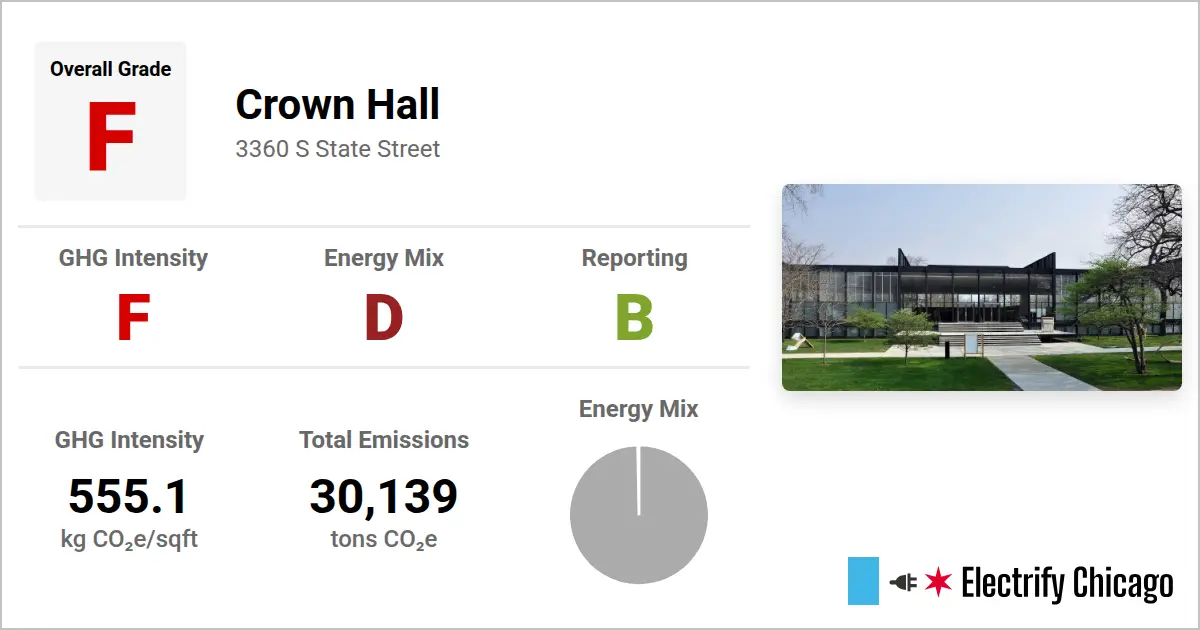
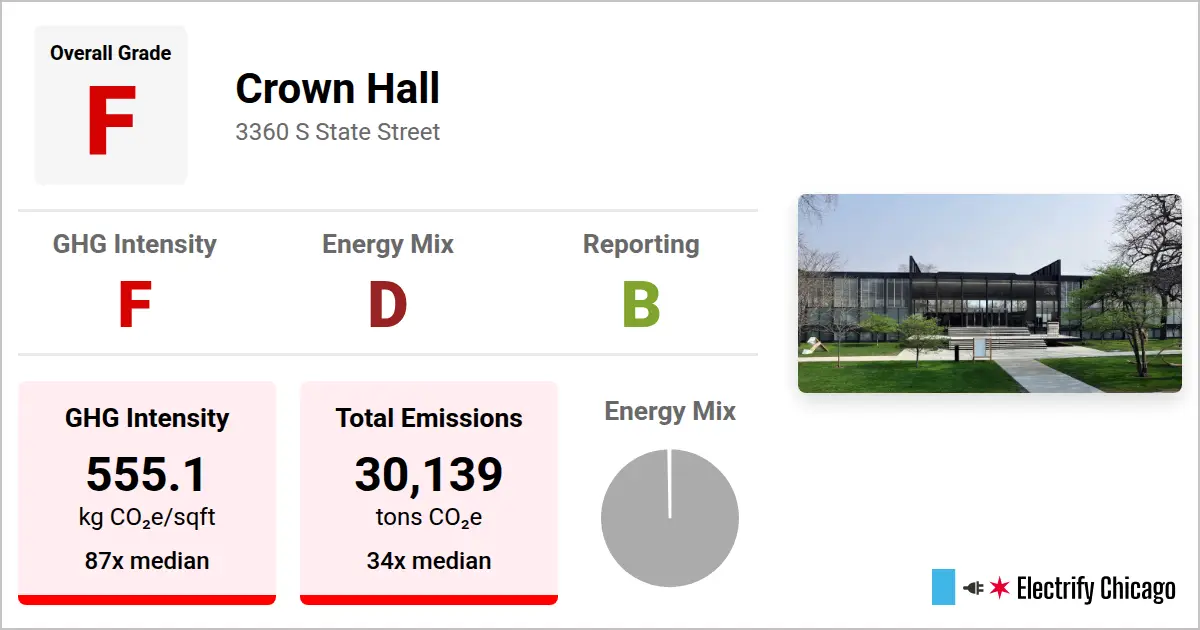
Tweak social images and regenerate test images

diff --git a/src/components/SocialCard.vue b/src/components/SocialCard.vue
@@ -1,7 +1,7 @@
 <template>
   <div class="social-card">
     <div class="social-card-content">
-      <div class="main-section">
+      <div class="main-section" :class="{ '-no-img': !buildingImg }">
         <div class="text-content">
           <div class="building-info">
             <div class="building-title-row">
@@ -240,9 +240,27 @@ export default class SocialCard extends Vue {
   .main-section {
     display: flex;
     height: 100%;
-    gap: 2rem;
+    gap: 2.5rem;
     flex: 1;
     align-items: center;
+
+    &.-no-img .stats-grid {
+      // If there's no image, we don't need to save space, so lock each column
+      grid-template-columns: 1fr 1fr 1fr;
+    }
+
+    .text-content {
+      flex: 1;
+    }
+
+    .image-section {
+      display: flex;
+      flex: 0 0 24rem;
+      height: 100%;
+      flex-direction: column;
+      align-items: flex-end;
+      justify-content: center;
+    }
   }
 
   .logo {
@@ -255,28 +273,16 @@ export default class SocialCard extends Vue {
       align-self: flex-start;
       margin-top: 0;
     }
+
     img {
-      height: 3rem;
+      height: 2.25rem;
     }
   }
 }
 
-.text-content {
-  flex: 1;
-}
-
-.image-section {
-  display: flex;
-  flex: 0 0 25rem;
-  height: 100%;
-  flex-direction: column;
-  align-items: flex-end;
-  justify-content: center;
-}
-
 .building-image {
   max-width: 100%;
-  max-height: 25rem;
+  max-height: 80%;
   border-radius: $brd-rad-medium;
   object-fit: cover;
   box-shadow: 0 0.5rem 1.25rem rgba(0, 0, 0, 0.15);
@@ -354,16 +360,17 @@ export default class SocialCard extends Vue {
 
 .stats-grid {
   display: grid;
-  grid-template-columns: 1fr 1fr 1fr;
-  gap: 2rem;
+  // Lock the two stat tiles to the same width, allow energy mix to be smaller
+  grid-template-columns: 1fr 1fr auto;
+  gap: 1.5rem;
   align-items: center;
 }
 
 .stat-item {
   border-radius: $brd-rad-medium;
-  padding: 1.25rem;
+  padding: 1.25rem 1.25rem 1rem 1.25rem;
   text-align: center;
-  border-bottom-width: 0.375rem;
+  border-bottom-width: 0.625rem;
   border-bottom-style: solid;
 
   &.-no-background {
@@ -379,15 +386,17 @@ export default class SocialCard extends Vue {
   .median-mult {
     font-size: 1.5rem;
   }
+
+  // Hiding the median value for now, it's too much info
   .median-val {
-    font-size: 1rem;
+    display: none;
   }
 }
 
 .sub-grade-label,
 .stat-label {
   font-weight: bold;
-  font-size: 1.5rem;
+  font-size: 1.65rem;
   text-align: center;
   line-height: 1.3;
   margin-bottom: 0.25rem;
@@ -411,8 +420,6 @@ export default class SocialCard extends Vue {
 
 .stat-unit {
   font-size: 1.5rem;
-  color: $text-mid-light;
-  font-weight: 500;
 }
 
 .sub-grades {

diff --git a/scripts/generateTestSocialImages.ts b/scripts/generateTestSocialImages.ts
@@ -14,13 +14,26 @@ const TEST_BUILDING_IDS: string[] = [
  */
 export async function generateTestSocialImages(): Promise<void> {
   console.log('🎨 Starting test social image generation...');
+  console.log('📁 Preserving existing social images (except test images)');
+
+  const SOCIAL_IMAGES_DIR = './static/social-images';
+
+  // Delete only the test images we're about to regenerate
+  console.log('🧹 Cleaning existing test images...');
+  for (const buildingId of TEST_BUILDING_IDS) {
+    const testImagePath = path.join(SOCIAL_IMAGES_DIR, `building-${buildingId}.webp`);
+    if (await fs.pathExists(testImagePath)) {
+      await fs.remove(testImagePath);
+      console.log(`   🗑  Removed building-${buildingId}.webp`);
+    }
+  }
 
   try {
     // Use the main generateSocialImages function with specific building IDs
-    await generateSocialImages(TEST_BUILDING_IDS);
+    // Pass false to preserve existing images
+    await generateSocialImages(TEST_BUILDING_IDS, false);
 
     // List the generated files
-    const SOCIAL_IMAGES_DIR = './static/social-images';
     const generatedFiles = TEST_BUILDING_IDS.map((id) => `building-${id}.webp`);
 
     console.log(`\n📋 Generated files:`);
